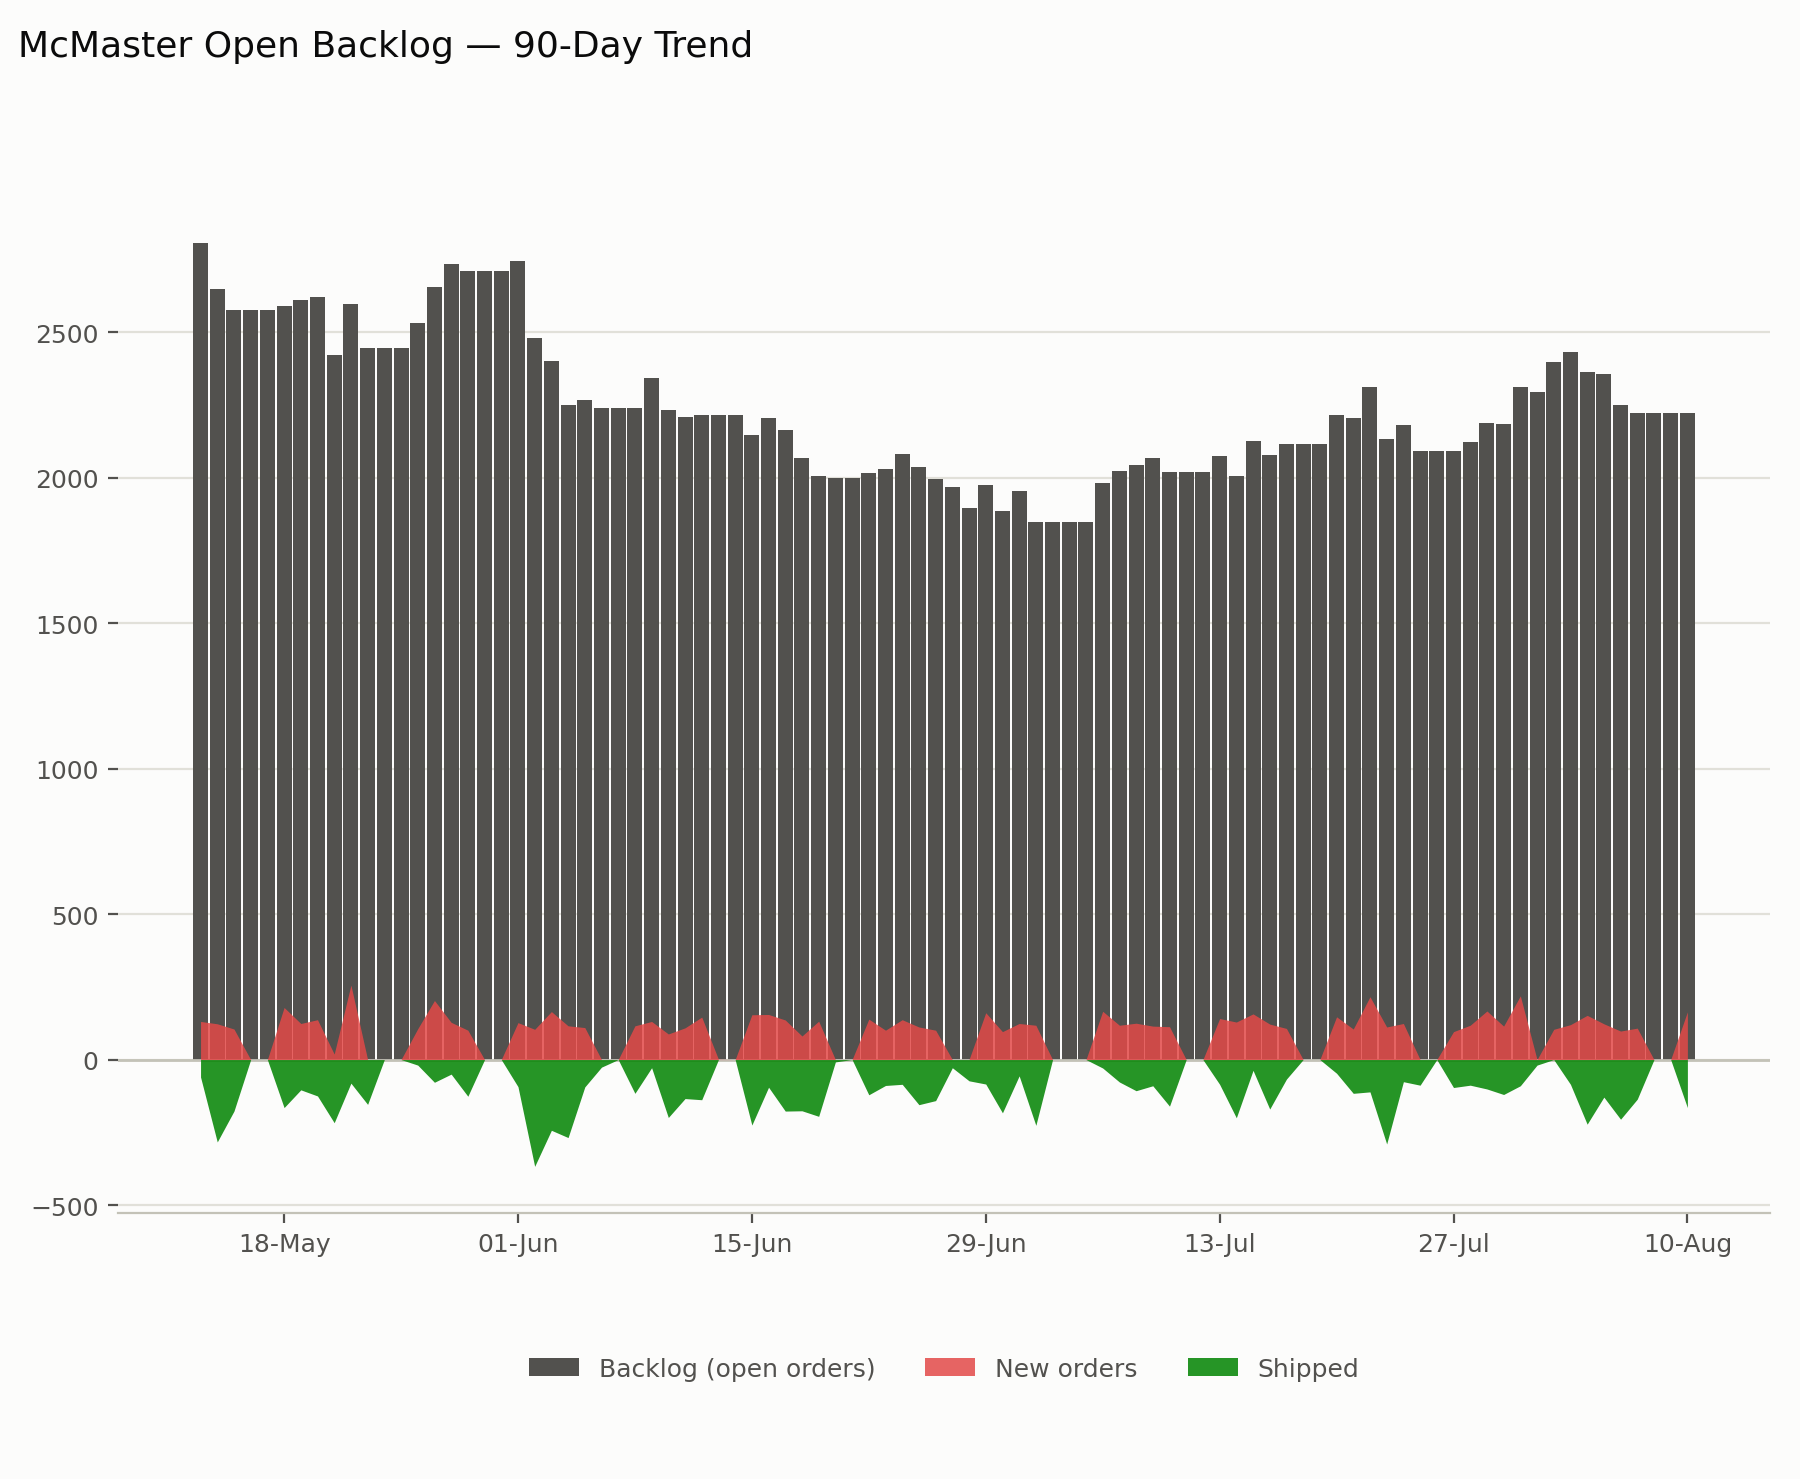
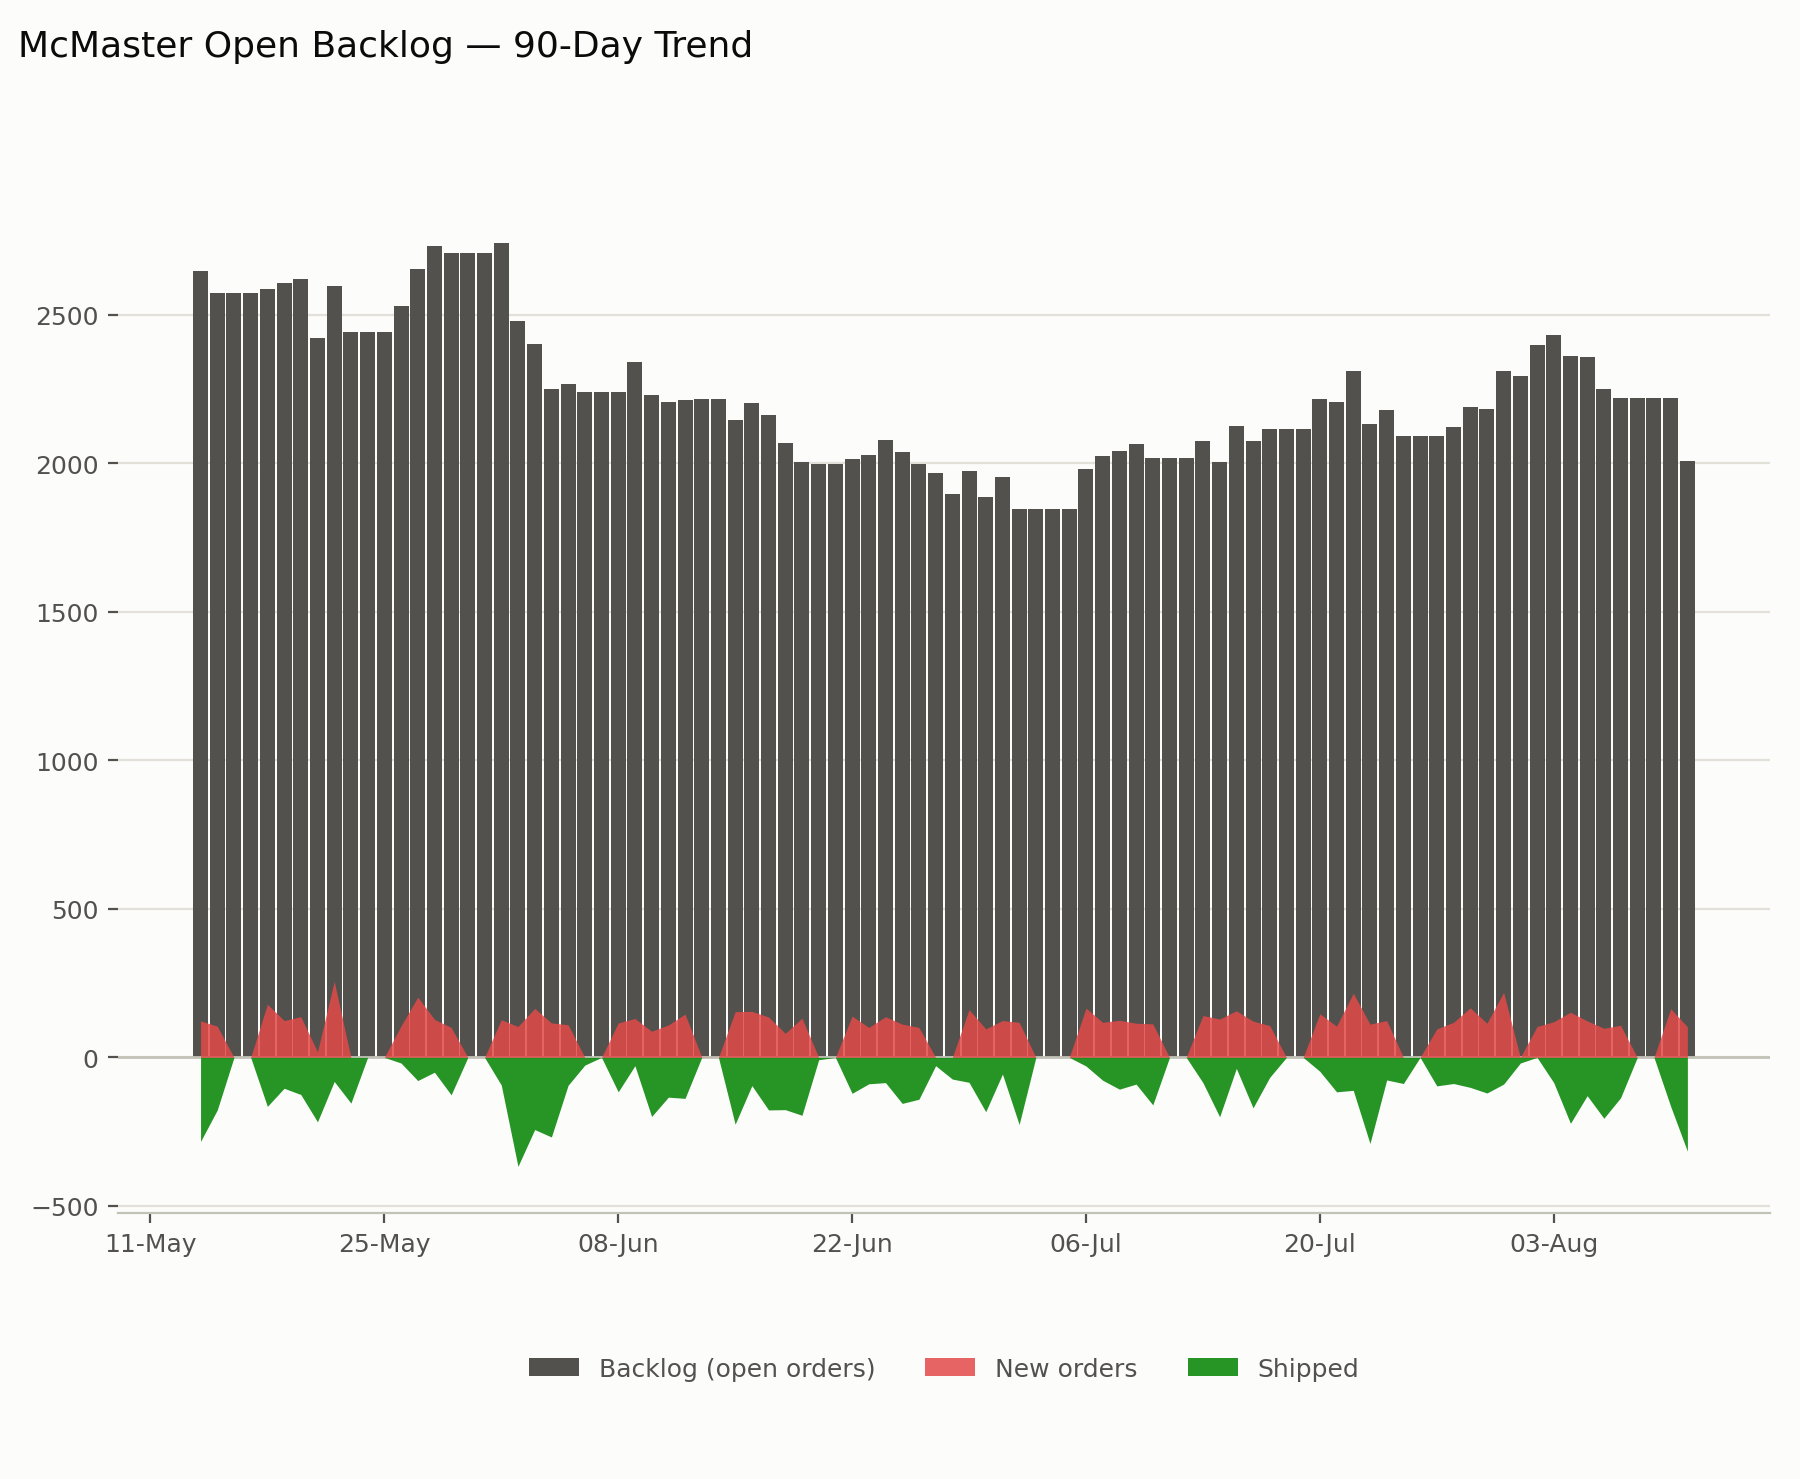
automation complete

diff --git a/etl/extract/oracle/oracle_download.py b/etl/extract/oracle/oracle_download.py
@@ -13,14 +13,16 @@ Review" endpoint) needs no login and is fetched with a plain HTTP request,
 no Playwright involved. Each link is one-time-use though: a second fetch
 of the same URL fails, so a report is only ever fetched once per run.
 
-"Latest complete set" means: for the open orders report, the single most
-recent one; for inventory, each org's own most recent report, independent
-of which hourly batch it happened to arrive in (a delayed/retried org
-report from an earlier hour is fine to mix with a newer hour's other
-orgs — this deliberately doesn't require all 6 to share the same batch).
+Strictly same-hour batch, no cross-hour fallback: the target hour is
+whichever hour the single most recent report email falls in, and every
+report (all 6 orgs + open orders) must come from that same hour or it's
+reported missing — never silently substituted with an older hour's report.
+This is intentional even though it means a report that hasn't arrived yet,
+or whose link got consumed some other way, shows up as missing rather than
+getting backfilled.
 """
 import os
-from datetime import datetime
+from datetime import datetime, timedelta
 
 import requests
 import win32com.client
@@ -30,10 +32,10 @@ from config.paths import ORACLE_RAW_DIR
 
 MANIFEST_PATH = os.path.join(ORACLE_RAW_DIR, "_download_manifest.txt")
 
-# Safety cap on how many inventory-report links we're willing to fetch (and
-# thereby consume) in one run — normally only ~6-8 are ever needed even
-# accounting for retries/duplicates in a given hour.
-MAX_INVENTORY_FETCHES = 20
+# Safety cap on how many links we're willing to fetch (and thereby consume)
+# in one run — the target-hour window is the primary bound, this just
+# guards against an unexpected flood of duplicate/retry emails within it.
+MAX_FETCHES_PER_TYPE = 20
 
 
 def _find_folder(ns, name):
@@ -73,24 +75,50 @@ def _detect_org(content):
     return None
 
 
+def _find_target_hour(items):
+    for item in items:
+        try:
+            subject = item.Subject or ""
+            received = item.ReceivedTime
+        except Exception:
+            continue
+        if INVENTORY_SUBJECT in subject or OPEN_ORDERS_SUBJECT in subject:
+            return received.replace(minute=0, second=0, microsecond=0)
+    return None
+
+
 def download_oracle_reports():
     os.makedirs(ORACLE_RAW_DIR, exist_ok=True)
     items = _get_reports_items()
 
+    target_hour = _find_target_hour(items)
+    if target_hour is None:
+        raise RuntimeError(f"No Oracle report emails found in the '{REPORTS_FOLDER_NAME}' Outlook folder")
+    hour_end = target_hour + timedelta(hours=1)
+
     open_orders = None  # {"received": ..., "subject": ...} once saved
     orgs = {}  # org -> {"received": ..., "subject": ...}
     inventory_fetches = 0
+    open_orders_fetches = 0
     all_orgs = set(CITY_TO_ORG.values())
-    manifest_lines = [f"Download run at {datetime.now():%Y-%m-%d %H:%M:%S}"]
+    manifest_lines = [
+        f"Download run at {datetime.now():%Y-%m-%d %H:%M:%S}",
+        f"Target hour: {target_hour}",
+    ]
 
     for item in items:
-        if open_orders is not None and set(orgs) >= all_orgs:
-            break
         try:
             subject = item.Subject or ""
             body = item.Body or ""
             received = item.ReceivedTime
         except Exception:
+            continue
+
+        if received < target_hour:
+            # Sorted newest-first — once we're older than the target hour,
+            # everything remaining is too. No cross-hour fallback.
+            break
+        if received >= hour_end:
             continue
 
         match = REPORT_URL_RE.search(body)
@@ -99,8 +127,21 @@ def download_oracle_reports():
         url = match.group(0)
 
         if open_orders is None and OPEN_ORDERS_SUBJECT in subject:
+            if open_orders_fetches >= MAX_FETCHES_PER_TYPE:
+                continue
+            open_orders_fetches += 1
             resp = requests.get(url, timeout=60)
             resp.raise_for_status()
+            # A one-time-use link that's already been consumed (by this
+            # script or by manually clicking it in Outlook) still returns
+            # HTTP 200 with a short "Authentication failed." body instead of
+            # the real report — validate before writing, or a re-run right
+            # after an earlier successful one would silently clobber a good
+            # file with 23 bytes of garbage.
+            if not resp.content.lstrip()[:15].lower().startswith(b"<html"):
+                print(f"Open orders link within target hour already consumed (subject={subject!r}, received={received}) — not falling back to an earlier hour")
+                manifest_lines.append(f"SKIPPED (consumed) open orders <- {subject!r} received {received}")
+                continue
             target = os.path.join(ORACLE_RAW_DIR, "AMC_Open_Orders_Report.xls")
             with open(target, "wb") as f:
                 f.write(resp.content)
@@ -110,18 +151,19 @@ def download_oracle_reports():
             continue
 
         if set(orgs) < all_orgs and INVENTORY_SUBJECT in subject:
-            if inventory_fetches >= MAX_INVENTORY_FETCHES:
+            if inventory_fetches >= MAX_FETCHES_PER_TYPE:
                 continue
             inventory_fetches += 1
             resp = requests.get(url, timeout=60)
             resp.raise_for_status()
             org = _detect_org(resp.text)
             if org is None:
-                print(f"Could not detect org for inventory report (subject={subject!r}, received={received}) — skipping")
+                print(f"Could not detect org for inventory report within target hour (subject={subject!r}, received={received}) — skipping")
                 continue
             if org in orgs:
-                # This link is now consumed either way — a newer report for
-                # this org was already saved, nothing more to do with it.
+                # Already have this org from a newer email within the same
+                # hour (a retry/duplicate) — this link is consumed either
+                # way, nothing more to do with it.
                 continue
             target = os.path.join(ORACLE_RAW_DIR, f"Inventory_{org}.txt")
             with open(target, "wb") as f:
@@ -132,16 +174,16 @@ def download_oracle_reports():
 
     missing_orgs = all_orgs - set(orgs)
     if missing_orgs:
-        print(f"WARNING: no inventory report found for: {sorted(missing_orgs)}")
-        manifest_lines.append(f"WARNING: no inventory report found for: {sorted(missing_orgs)}")
+        print(f"WARNING: no inventory report found for {sorted(missing_orgs)} within target hour {target_hour}")
+        manifest_lines.append(f"WARNING: no inventory report found for {sorted(missing_orgs)} within target hour {target_hour}")
     if open_orders is None:
-        print("WARNING: no open orders report found")
-        manifest_lines.append("WARNING: no open orders report found")
+        print(f"WARNING: no open orders report found within target hour {target_hour}")
+        manifest_lines.append(f"WARNING: no open orders report found within target hour {target_hour}")
 
     with open(MANIFEST_PATH, "w", encoding="utf-8") as f:
         f.write("\n".join(manifest_lines) + "\n")
 
-    return {"orgs": orgs, "open_orders": open_orders}
+    return {"target_hour": target_hour, "orgs": orgs, "open_orders": open_orders}
 
 
 if __name__ == "__main__":

diff --git a/pipelines/run_daily.py b/pipelines/run_daily.py
@@ -63,17 +63,19 @@ def run_daily_mcmaster():
     _confirm("SharePoint ingest ran")
 
     oracle_result = run_oracle_download()
+    target_hour = oracle_result["target_hour"]
     orgs = oracle_result["orgs"]
     open_orders = oracle_result["open_orders"]
+    print(f"[Oracle target hour: {target_hour}]")
     for org, info in sorted(orgs.items()):
-        _confirm(f"Oracle {org} inventory", f"report received {info['received']}")
+        _confirm(f"Oracle {org} inventory", f"received {info['received']}")
     missing = {"CLE", "DAL", "LOS", "JVL", "WIE", "ATL"} - set(orgs)
     if missing:
-        print(f"[MISSING] Oracle inventory not found for: {sorted(missing)}")
+        print(f"[MISSING] Oracle inventory not found for {sorted(missing)} within target hour {target_hour}")
     if open_orders:
-        _confirm("Oracle open orders", f"report received {open_orders['received']}")
+        _confirm("Oracle open orders", f"received {open_orders['received']}")
     else:
-        print("[MISSING] Oracle open orders report not found")
+        print(f"[MISSING] Oracle open orders not found within target hour {target_hour}")
 
     run_all_oracle_ingestions()
     _confirm("Oracle ingest ran")
@@ -92,6 +94,17 @@ def run_daily_mcmaster():
     print("=== Daily McMaster: completed ===")
 
 
+def run_daily_all():
+    """
+    Both sequences back to back, in one call — for manually running the
+    whole current daily workstream before this is on Task Scheduler.
+    Same two functions Task Scheduler will end up calling separately; this
+    is purely a manual-run convenience, not a third scheduled task.
+    """
+    run_daily_core()
+    run_daily_mcmaster()
+
+
 if __name__ == "__main__":
     import sys
     task = sys.argv[1] if len(sys.argv) > 1 else None
@@ -99,5 +112,7 @@ if __name__ == "__main__":
         run_daily_core()
     elif task == "mcmaster":
         run_daily_mcmaster()
+    elif task == "all":
+        run_daily_all()
     else:
         print("Usage: python -m pipelines.run_daily [core|mcmaster]")

diff --git a/run.py b/run.py
@@ -9,7 +9,7 @@ from pipelines.run_all_ingest import (
     run_all_oracle_ingestions,
 )
 from pipelines.run_dbt import run_dbt
-from pipelines.run_daily import run_daily_core, run_daily_mcmaster
+from pipelines.run_daily import run_daily_core, run_daily_mcmaster, run_daily_all
 # from etl.output.overship_daily_dashboard import overship_daily_dashboard
 import sys
 
@@ -123,6 +123,13 @@ if __name__ == "__main__":
         # Currently daily, tied to the McMaster report: SharePoint, Oracle,
         # dbt, then the report + email (show).
         run_daily_mcmaster()
+
+    elif task == "daily-all":
+        # Usage: python run.py daily-all
+        # Manual convenience — daily-core then daily-mcmaster back to back,
+        # for running the whole current workstream by hand before this is
+        # on Task Scheduler (which calls the two separately).
+        run_daily_all()
 
     elif task == "outputs":
         run_outputs()

diff --git a/COMMANDS.md b/COMMANDS.md
@@ -23,6 +23,10 @@ McMaster's future is genuinely undecided ("could go away, could stay, it's its
 own thing"), so it should be independently disable/reschedule-able without
 touching core ingest.
 
+| Run | Does |
+|-----|------|
+| `python run.py daily-all` | Manual convenience only — `daily-core` then `daily-mcmaster` back to back, for running the whole current workstream by hand. Not a third scheduled task. |
+
 ### Daily — individual pieces (for manual re-runs / debugging)
 
 Everything below is also called automatically by the two commands above — these
@@ -108,6 +112,20 @@ change if McMaster's setup changes — see `pipelines/run_daily.py`'s docstring)
 SharePoint download + ingest, Oracle download + ingest, `dbt run`, then McMaster
 output and email (`show`, not `send` — you still review before sending). Defined
 as `run_daily_mcmaster()`. No arguments.
+
+---
+
+## Daily — All
+
+```
+python run.py daily-all
+```
+
+Manual convenience only: `daily-core` then `daily-mcmaster` back to back, for
+running the whole current daily workstream by hand before/without Task
+Scheduler. Defined as `run_daily_all()` in `pipelines/run_daily.py` — Task
+Scheduler calls the two sequences separately (see above), not this. No
+arguments.
 
 ---
 
@@ -229,13 +247,20 @@ Each link is one-time-use though (a second fetch of the same URL fails), so a
 report is only ever fetched once per run.
 
 Org is detected by reading column 9 of the inventory file (a city name, consistent
-across every row) and mapping it via `CITY_TO_ORG` in `config/oracle.py`. "Latest
-complete set" means each org's own most recent report, independent of which hourly
-batch it arrived in — a delayed org from an earlier hour is fine to mix with a
-newer hour's other orgs.
+across every row) and mapping it via `CITY_TO_ORG` in `config/oracle.py`.
+
+**Strictly same-hour batch, no cross-hour fallback**: the target hour is whichever
+hour the single most recent report email falls in — every report (all 6 orgs +
+open orders) must come from that same hour or it's reported `[MISSING]`, never
+silently substituted with an older hour's report. If a link within the target hour
+turns out already-consumed (already fetched by an earlier run, or manually clicked
+in Outlook), that specific report is reported missing rather than falling back —
+deliberate, so a stale-but-present file is never mistaken for this hour's real data.
 
 Saves to `etl/data_raw/oracle/`: `Inventory_<ORG>.txt` ×6 and
-`AMC_Open_Orders_Report.xls` (all overwrite). No arguments.
+`AMC_Open_Orders_Report.xls` (only the ones actually found this hour — a missing
+report's existing file from a previous run is left untouched, not overwritten with
+garbage). No arguments.
 
 ---
 
